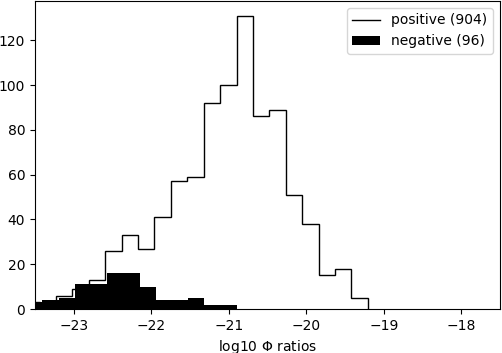
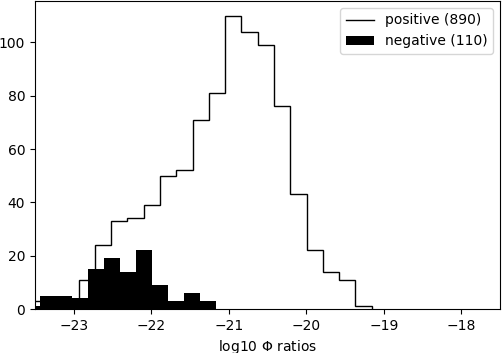
update figures in app C, and correct/improve some text

diff --git a/paper/estimate.tex b/paper/estimate.tex
@@ -463,7 +463,7 @@ The numerical experiments in Appendix \ref{app:numerical} show that the surface 
 \end{equation}
 using surface velocities from a numerical Stokes model when evaluating $\Phi$.  By definition \eqref{eq:qcoercive}, if $\Phi$ were $4$-coercive over $\cX=W^{1,4}(\Omega)$, and if computations were exact, then these ratios would all exceed a constant $\alpha>0$.  Appendix \ref{app:numerical} shows that pairs yielding negative ratios do exist but that, under mesh refinement, they become rare.  Standard presentations of Stokes models for glaciers give no direct reason to expect these ratios should prefer positive values, but we see that the mean and median ratios are decidely positive, and under refinement they stabilize away from zero.
 
-To suggest why coercivity might occur, we can rewrite the surface motion $\Phi(s)$ in a different manner.  Extend $\omega\in \cX$ to $\Lambda(s)$ as $\tilde\omega(x,z)=\omega(x)$, i.e.~independent of $z$, and define the glaciological ice flux $\bq(s) = \int_b^s \bU\,dz$ \cite{SchoofHewitt2013}, where $\bU=(u_1,u_2)$ is the horizontal velocity in $\bu=(u_1,u_2,w)$.  Definition \eqref{eq:definePhi}, the non-sliding assumption ($\bu|_{\Gamma_b}=\bzero$), the divergence theorem, and incompressibility yields
+To suggest why coercivity might occur, we can rewrite the surface motion $\Phi(s)$ in a different manner.  Extend $\omega\in \cX$ to $\Lambda(b,s)$ as $\tilde\omega(x,z)=\omega(x)$, i.e.~independent of $z$, and define the glaciological ice flux $\bq(s) = \int_b^s \bU\,dz$ \cite{SchoofHewitt2013}, where $\bU=(u_1,u_2)$ is the horizontal velocity in $\bu=(u_1,u_2,w)$.  Definition \eqref{eq:definePhi}, the non-sliding assumption ($\bu|_{\Gamma_b}=\bzero$), the divergence theorem, and incompressibility yields
 \begin{align}
 \Phi(s)[\omega] &= -\int_{\Omega} \bu|_s \cdot \bn_s\,\omega\,dx = -\int_{\partial\Lambda(b,s)} \tilde\omega \bu\cdot {\hat\bn}\,dS = - \int_{\Lambda(b,s)} \Div\left(\tilde\omega \bu\right)  \label{eq:fluxformPhi} \\
   &= - \int_{\Lambda(b,s)} \bu\cdot \grad \tilde\omega = -\int_\Omega \bq(s) \cdot \grad \omega, \notag
@@ -829,35 +829,32 @@ Proposition \ref{prop:notunique} answers negatively, via a surprisingly-simple c
 
 \section{Experiments on coercivity of the surface motion map} \label{app:numerical}
 
-Conjecture \ref{conj:regcoercive} permits a well-posedness framework for the continuum implicit time-step problem for glaciers, VI problem \eqref{eq:regularizedvi}.  This is critical to the application of \emph{a priori} Theorem \ref{thm:abstractestimate}, in order to bound FE surface elevation errors (Theorem \ref{thm:glacierapp}).
+Conjecture \ref{conj:regcoercive} is part of a well-posedness framework for the continuum implicit time-step problem for glaciers, VI problem \eqref{eq:regularizedvi}.  In combination with \emph{a priori} Theorem \ref{thm:abstractestimate}, this leads to a bound on FE surface elevation error (Theorem \ref{thm:glacierapp}).
 
-The reasonableness of the Conjecture can be tested by sampling from numerical simulations.  The experiments here, using Python and the Firedrake FE library \cite{Hametal2023},\footnote{Source code is at the public repository \href{https://github.com/bueler/glacier-fe-estimate}{\texttt{github.com/bueler/glacier-fe-estimate}}, in the \texttt{py/} directory.  The codes call the library at \href{https://github.com/bueler/stokes-extrude}{\texttt{github.com/bueler/stokes-extrude}}.} are not intended to demonstrate any particular time-stepping.  They simply generate admissible surface elevation pairs $\sigma,s\in\cK \subset \cX = W^{1,4}(\Omega)$, to use as samples in a coercivity test.  For each pair of surfaces we evaluate coercivity ratios:
+The reasonableness of the Conjecture can be tested by sampling from numerical simulations.  The experiments here, using Python and the Firedrake FE library \cite{Hametal2023},\footnote{Source code is at the public repository \href{https://github.com/bueler/glacier-fe-estimate}{\texttt{github.com/bueler/glacier-fe-estimate}}, in the \texttt{py/} directory.  The codes call the library at \href{https://github.com/bueler/stokes-extrude}{\texttt{github.com/bueler/stokes-extrude}}.} are not intended to demonstrate any particular time-stepping.  They simply generate admissible surface elevation pairs $\sigma,s\in\cK \subset \cX = W^{1,4}(\Omega)$, to use as samples in a coercivity test.  For each pair of surfaces we evaluate $4$-coercivity ratios:
 \begin{equation}
 \rho^\eps(\sigma,s) = \frac{\left(\Phi^\eps(\sigma) - \Phi^\eps(s)\right)[\sigma-s]}{\|\sigma-s\|_{\cX}^4}. \label{eq:Phiratio}
 \end{equation}
-(FIXME Compare inequality \eqref{eq:regularizedPhi}.)  In the experiments we use $\eps\in\{0,0.1\}$ only.  Appendix \ref{app:noncoercive} shows that for bumpy beds there exist pairs that give $\rho^0(\sigma,s) = 0$.
+(Compare inequality \eqref{eq:qcoercive}.)  In the experiments we use $\eps\in\{0,0.01\}$ only, and $\eta_0=500$ m in \eqref{eq:fe:regularizedF}.  Appendix \ref{app:noncoercive} shows that for bumpy beds there exist pairs that give $\rho^0(\sigma,s) = 0$.
 
-If the set of all possible ratios $\{\rho^\eps(\sigma,s)\}_{\sigma,s\in\cK}$ were bounded below by a positive constant $\alpha>0$, then this would verify Conjecture \ref{conj:regcoercive}.  However, an experiment obviously allows only finite sampling using particular data and discretizations.  Here the domain is the 1D interval $\Omega=(-L,L)$ with $L=100$ km, meshed into equal intervals.  The FE space $\cX_h\subset \cX$ is the set of continuous $P_1$ (piecewise-linear) functions, thus the Stokes domain $\Lambda(s)$ is polygonal.  Regarding the data, two bed profiles (Figure \ref{fig:cases}) are considered, \emph{flat} ($b_1(x)=0$) and \emph{rough} ($b_2(x)$); the latter is a linear combination of several sinusoids down to 4 km wavelength.  Three spatially-constant SMB values $a_j\in\{-2.5,0.0,1.0\}\times 10^{-7}$\, $\text{m}\,\text{s}^{-1}$ were compared.
+If the set of all possible ratios $\{\rho^\eps(\sigma,s)\}_{\sigma,s\in\cK}$ were bounded below by a positive constant $\alpha>0$, then this would verify Conjecture \ref{conj:regcoercive}.  However, an experiment obviously allows only finite sampling using particular data and discretizations.  Here the domain is the 1D interval $\Omega=(-L,L)$ with $L=100$ km, meshed into equal intervals.  The FE space $\cX_h\subset \cX$ is the set of continuous $P_1$ (piecewise-linear) functions, thus the Stokes domain $\Lambda(s)$ is polygonal.  Regarding the data, two bed profiles (Figure \ref{fig:cases}) are considered, \emph{flat} ($b_1(x)=0$) and \emph{rough} ($b_2(x)$); the latter is a linear combination of several sinusoids down to 4 km wavelength.  Three constant SMB values $a_j\in\{-2.5,0.0,1.0\}\times 10^{-7}$\, $\text{m}\,\text{s}^{-1}$ were compared.
 
 \begin{figure}[ht]
 \centering
 \includegraphics[width=0.35\textwidth]{figs/snapsflat.png} \quad \includegraphics[width=0.37\textwidth]{figs/snapsrough.png}
-\caption{Two bed profiles, flat and rough, define constraint sets $\cK_h^i\subset\cX_h$, $i=1,2$, in the numerical experiment.  For each $\cK_h^i$, runs using different constant values of the SMB (see text) generated a large number of admissible surface elevations, representing a range of glacier sizes covering different portions of the domain.}
+\caption{Two bed profiles, flat and rough, define constraint sets $\cK_h^i\subset\cX_h$, $i=1,2$, in the numerical experiment.  For each $\cK_h^i$, runs using different constant values of the SMB generated a large number of admissible surface elevations, representing a range of glacier sizes covering different portions of the domain.}
 \label{fig:cases}
 \end{figure}
 
-Using \eqref{eq:be:admissible}, each bed elevation $b_i$ defines a constraint set $\cK_h^i \subset \cX_h$.  A time-dependent, Stokes-dynamics simulation of $T=200$ years was done for each combination of set $\cK_h^i$ and value $a_j$.  One thousand sample pairs were taken from all runs with a given $\cK_h^i$, at random times in $[0,T]$.  The different $a_j$ values caused advance or retreat of the ice margins, and indeed for $a_1<0$ the glacier disappears.  Thus the samples included very-different surface elevation pairs.  The initial surface for these runs is a Halfar profile\footnote{For the $b_1=a_2=0$ case the exact time-dependent surface elevation solution \emph{under shallow dynamics} would be known.  Though Stokes dynamics was used in the numerical experiment, the computed surfaces agree closely with this shallow exact solution, as expected; compare \cite{LofgrenAhlkronaHelanow2022}.} \cite{Halfar1981} (Figure \ref{fig:cases}, dotted).  Each time-step was semi-implicit, approximating VI \eqref{eq:be:vi} using $\bu|_{s^{n-1}}\cdot\bn_{s^n}$, with the free-surface stabilization technique from \cite{LofgrenAhlkronaHelanow2022} to lengthen time steps.  (This scheme is only conditionally-stable.)  The VI problems at each step were solved using a reduced-space Newton method with line search \cite{BensonMunson2006}.  The Stokes problems \eqref{eq:glenstokes:weak}, with $\mu_0=10^{-19}\, \text{s}^{-2}$ in \eqref{eq:glen}, were solved on domains $\Lambda(s^{n})$ using vertically-extruded quadrilateral meshes (Figure \ref{fig:fe:domain}) and stable $Q_2\times Q_1$ Taylor-Hood elements \cite{Elmanetal2014}.
+Using \eqref{eq:be:admissible}, each bed elevation $b_i$ defines a constraint set $\cK_h^i \subset \cX_h$.  A time-dependent, Stokes-dynamics simulation of $T=200$ years was run for each combination of set $\cK_h^i$ and value $a_j$.  One thousand sample pairs were taken from all runs with a given $\cK_h^i$, at random times in $[0,T]$.  The different $a_j$ values caused advance or retreat of the ice margins; for $a_1<0$ the glacier disappears during the simulation.  Thus the samples included very-different surface elevation pairs.  The initial surface for these runs is a Halfar profile\footnote{For the $b_1=a_2=0$ case the exact time-dependent surface elevation solution \emph{under shallow dynamics} would be known.  Though Stokes dynamics was used in the numerical experiment, the computed surfaces agree closely with this shallow exact solution, as expected; compare \cite{LofgrenAhlkronaHelanow2022}.} \cite{Halfar1981} (Figure \ref{fig:cases}, dotted).  Each time-step was semi-implicit, approximating VI \eqref{eq:be:vi} using $\bu|_{s^{n-1}}\cdot\bn_{s^n}$, with the free-surface stabilization technique from \cite{LofgrenAhlkronaHelanow2022} to lengthen time steps.  (This scheme is only conditionally-stable.)  The VI problems at each step were solved using a reduced-space Newton method with line search \cite{BensonMunson2006}.  The Stokes problems \eqref{eq:glenstokes:weak}, with $\mu_0=10^{-19}\, \text{s}^{-2}$ in \eqref{eq:glen}, were solved using vertically-extruded quadrilateral meshes (Figure \ref{fig:fe:domain}) and stable $Q_2\times Q_1$ Taylor-Hood elements \cite{Elmanetal2014}.
 
-The essential result is shown in Figure \ref{fig:regratios}, with histograms of sample ratios $\rho^{0.1}(\sigma,s)$, on a logarithmic axis, from the highest spatial resolution ($\Delta x=500$ m and 40 elements in each column).  More than $99\%$ of the ratios are positive for the flat bed $b_1$, with $100\%$ positive for the more-generic rough bed $b_2$.  Indeed, for the latter bed a coercivity constant $\alpha=10^{-22}$ is credible.  Note that dimensional values around $10^{-20}$ are expected because $\|s\|_{\cX}\sim 10^{5}$ is typical in $\cX = W^{1,4}(\Omega)$, using the norm scaling \eqref{eq:norm:Omega}, while residuals in the numerator of \eqref{eq:Phiratio} have typical magnitudes in $(10^{-5},1)$.
-% flat: 2.576e-07
-% rough: 2.230e-07
-Regarding Conjecture \ref{conj:lipschitz}, namely Lipschitz continuity for the surface velocity trace, the maximum ratio $\big\|\bu|_\sigma - \bu|_s\big\|_{L^{4/3}}\,\|\sigma-s\|_{\cX}^{-1}$ was $2.6\times 10^{-7}$, for all sample pairs. 
+The essential result is shown in Figure \ref{fig:regratios}, with histograms of sample ratios $\rho^{0.01}(\sigma,s)$, on a logarithmic axis, from the highest spatial resolution ($\Delta x=500$ m and 40 elements in each column).  All ratios are positive, and a coercivity constant $\alpha=10^{-22}$ is credible.  Note that dimensional values of this approximate magnitude are expected because $\|s\|_{\cX}\sim 10^{5}$ is typical in $\cX = W^{1,4}(\Omega)$, using the norm scaling \eqref{eq:norm:Omega}, while residuals in the numerator of \eqref{eq:Phiratio} have typical magnitudes between $10^{-5}$ and $10^0$.  Regarding Conjecture \ref{conj:lipschitz}, Lipschitz continuity for the surface velocity trace, the ratios $\big\|\bu|_\sigma - \bu|_s\big\|_{L^{4/3}}/\|\sigma-s\|_{\cX}$ never exceeded $10^{-6}$.
 
 
 \begin{figure}[ht]
 \centering
 \includegraphics[width=0.40\textwidth]{figs/bflat500mREG.png} \, \includegraphics[width=0.40\textwidth]{figs/brough500mREG.png}
-\caption{Histograms of ratios $\rho^{0.1}(\sigma,s)$ from 1000 sample pairs, for flat-bed (left) and rough-bed (right) cases.}
+\caption{Histograms of ratios $\rho^{0.01}(\sigma,s)$ from 1000 sample pairs, for flat-bed (left) and rough-bed (right) cases.}
 \label{fig:regratios}
 \end{figure}
 
@@ -868,11 +865,13 @@ Regarding Conjecture \ref{conj:lipschitz}, namely Lipschitz continuity for the s
 \label{fig:noregratios}
 \end{figure}
 
-In summary we have substantial, but necessarily very incomplete, evidence for coercivity Conjecture \ref{conj:regcoercive}.  An underlying reason for this evidence is that \emph{the regularization does not need to do much work}.  Figure \ref{fig:noregratios} shows unregularized ratios from the same pairs.  About $10\%$ of ratios are negative, which violates coercivity, but their absolute values are an order of magnitude smaller.  Glacier evolution under Stokes dynamics seemingly ``wants'' to be coercive, and the continuum problem may be more coercive than any discretization.  Figure \ref{fig:resolutionratios} shows the results from running the same rough-bed experiment as in Figure \ref{fig:regratios}, but at lower resolutions; poorer discretizations produced negative ratios $\rho^\eps(\sigma,s)$.  Higher marginal resolution, specifically, improves numerical coercivity.
+In summary we have substantial, but necessarily incomplete, evidence for coercivity Conjecture \ref{conj:regcoercive}.  An underlying reason is that \emph{the regularization does not need to do much work}.  Figure \ref{fig:noregratios} shows unregularized ratios from the same pairs.  About $10\%$ of ratios are negative, which violates coercivity, but their absolute values are an order of magnitude smaller than the positive ratios.  Glacier evolution under Stokes dynamics seemingly ``wants'' to be coercive.
+
+Furthermore the continuum problem appears to be more coercive than any discretization.  Figure \ref{fig:resolutionratios} shows the results from running the same rough-bed experiment as in Figure \ref{fig:regratios}, but at lower resolutions; the coarsest discretization produced a few negative ratios.  Higher marginal resolution, in particular, improves numerical coercivity.
 
 \begin{figure}[ht]
 \mbox{\includegraphics[width=0.31\textwidth]{figs/brough2000mREG.png} \, \includegraphics[width=0.31\textwidth]{figs/brough1000mREG.png} \, \includegraphics[width=0.31\textwidth]{figs/brough500mREG.png}}
-\caption{Resolution effects: Ratios $|\rho^{0.1}(\sigma,s)|$ for horizontal mesh resolutions $\Delta x=2000$ m (left), $1000$ m (middle), and $500$ m (right; same as Figure \ref{fig:regratios} right).}
+\caption{Resolution effects: Ratios $|\rho^{0.01}(\sigma,s)|$ for horizontal mesh resolutions $\Delta x=2000$ m (left), $1000$ m (middle), and $500$ m (right; same as Figure \ref{fig:regratios} right).}
 \label{fig:resolutionratios}
 \end{figure}
 

diff --git a/py/case.py b/py/case.py
@@ -24,7 +24,7 @@ if writepvd:
 
 # regularization parameter
 EPSREG = 0.01
-# FIXME H0 is only set inside physics.py, and called by codes in measure.py
+# note H0 is only set inside physics.py, and called by codes in measure.py
 
 # experiment parameters
 L = 100.0e3                       # domain is (-L,L)
